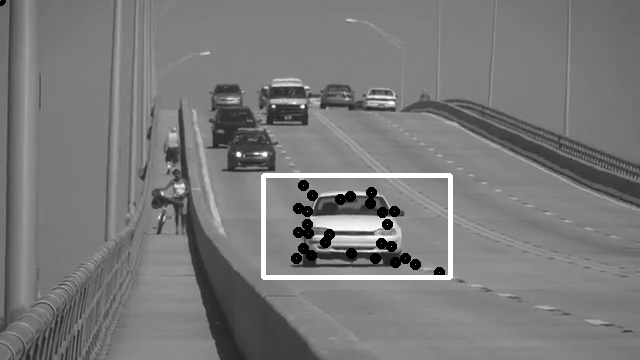
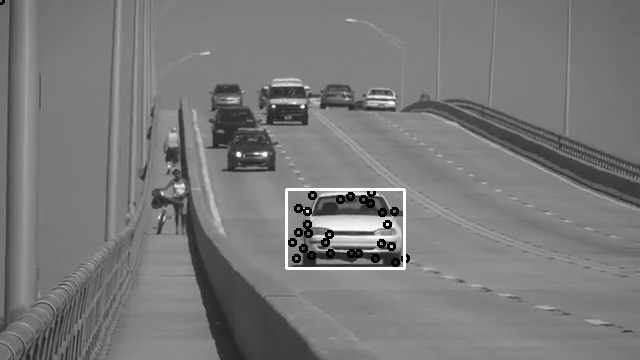
abbys mangjak

Changed region(s): [[0.4062, 0.4583, 0.7188, 0.7944]]

diff --git a/optical_flow.py b/optical_flow.py
@@ -31,10 +31,8 @@ def getFeatures(img,bbox):
     mask[y1:y2, x1:x2] = 255
 
     features = cv2.goodFeaturesToTrack(img,30,0.01,10, mask=mask)
-    #print("SHAPE OF FEATURES", features)
     features_squeeze = features.reshape(-1, 2)
     corners=np.int32(features_squeeze)
-    #print("THIS IS CONRENR", corners.shape)
     img_to_show = img.copy()
     
     #for (x,y) in corners:
@@ -42,6 +40,7 @@ def getFeatures(img,bbox):
     #    cv2.circle(img_to_show,(x,y),3,(0,0,255),3)
     
     #cv2.imwrite("result.jpg",img_to_show*255)
+    print("THIS AT GET FEAUTRES", features_squeeze)
     return features_squeeze
 
 
@@ -120,11 +119,10 @@ def applyGeometricTransformation(frame, features, new_features, bbox):
     """
     print("THIS IS FEATURES", features)
    # print("AT APPLY GEOMETRIC", new_features.shape)
-    dist_thresh = 8
+    dist_thresh = 20
     # filter out 0,0s 
     #print("THIS IS SIZE NEW_ FEAT", new_features.shape) #30,2
     non_zero_mask = np.logical_or(features[:,0] > 1, features[ :,1]>1)
-    print("NON ZERO MASK", new_features[:, 0], non_zero_mask)
     new_features = new_features[non_zero_mask]
     features = features[non_zero_mask]
     print("THIS IS NEW _FEAUTES", new_features)
@@ -134,8 +132,8 @@ def applyGeometricTransformation(frame, features, new_features, bbox):
     if num_features < 30*0.4:
         get_new_feat = getFeatures(frame, bbox)
         print("!!!!!!BEFORE NEW FEAT", new_features.shape, get_new_feat.shape)
-        new_features = np.concatenate((new_features, get_new_feat), axis=0)
-        features = np.concatenate((features, get_new_feat), axis=0)
+        #new_features = np.concatenate((new_features, get_new_feat), axis=0)
+        #features = np.concatenate((features, get_new_feat), axis=0)
         print("THIS IS NEW FEATURES!!!!!!!", new_features.shape)
         num_features= features.shape[0]
 
@@ -144,17 +142,20 @@ def applyGeometricTransformation(frame, features, new_features, bbox):
     if transformation:
         homoMatrix = transform.params
         transformed_features = matrix_transform(features, homoMatrix)
+    else:
+        print("NO TRANSFORMED ON FEATURES\n")
     for idx in range(num_features):
         transformed_point = transformed_features[idx]
         new_point = new_features[idx]
         dist_btw_points = math.sqrt((transformed_point[0]- new_point[0])**2 + (transformed_point[1] - new_point[1])**2)
+        print("THis is DIST POINTS", dist_btw_points)
         if dist_btw_points > dist_thresh:
             new_features[idx,:] = np.array([0, 0])
 
-    #print("THIS IS BBOX", bbox, bbox.shape)
     if transformation:
-        # bbox (n, 2, 2) currently setting idx to 0
         bbox = matrix_transform(bbox, homoMatrix)
+    else:
+        print("NO TRANSFORMED ON BBOX")
     #print("THIS IS NEW BBOX", bbox)
     #new_bbox = new_bbox.reshape(1, 2, 2)
     #filterout 
@@ -167,6 +168,8 @@ def applyGeometricTransformation(frame, features, new_features, bbox):
         #print("THIS IS NEW BBOX X1 to Y2", new_bbox_x1, new_bbox_x2, new_bbox_y1, new_bbox_y2)
         if new_features[idx][0] < new_bbox_x1 or new_features[idx][1] < new_bbox_y1 or new_features[idx][0] > new_bbox_x2 or new_features[idx][1] > new_bbox_y2:
             new_features[idx] = [0, 0]
+   #new_zero_mask = np.logical_or(new_features[:,0] > 1, new_features[ :,1]>1)
+    #new_features = new_features[non_zero_mask]
    #new_bbox = new_bbox.reshape(-1, 2, 2)
     #print("RETURNED NEW BBOX", bbox, new_features)
     return new_features, bbox

diff --git a/main.py b/main.py
@@ -55,7 +55,7 @@ def objectTracking(rawVideo):
                 
                 frame_old = frame.copy()
                 vis = frame.copy()
-                
+                print("THIS IS BEFORE DRAWING", tmp_new_features)
                 new_frame_to_show = frame.copy()
                 for i in tmp_new_features:
                     x,y = i.ravel()
